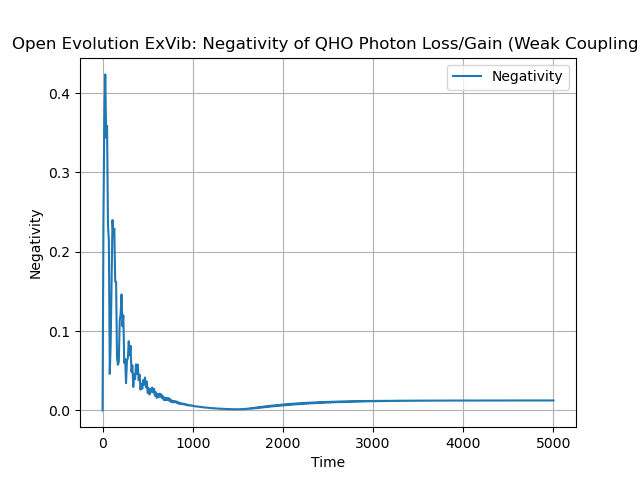
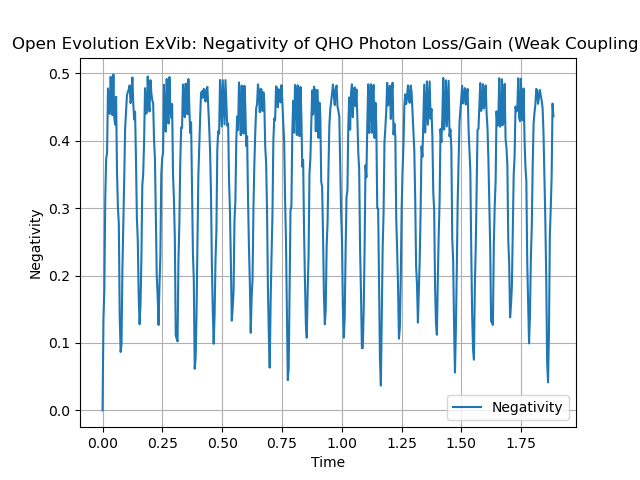
Corrects parameters and plots for Exciton-Vibration simulation.

diff --git a/Research Project/Code/ExVib_Open.py b/Research Project/Code/ExVib_Open.py
@@ -8,20 +8,21 @@ import math
 
 # NCOMMS4012: Consider pigments-protein environment of PE545 complex. Taking parameters stated,
 # d_epsilon = 1042, V = 92, d_E = 1058, w = 1111 all in cm^-1.
-# g = (0.0578)^0.5 = 267 cm^-1
+# g = w*(0.0578)^0.5 = 267 cm^-1
 # Moreover, T ~ 300K room temp expt.
 
-tlist = np.linspace(0.0, 5000.0, 500)  # units of 1/hbar omega
+t_max = 10.0 # ps
+tlist = np.linspace(0.0, 2 *np.pi * 0.03 * t_max , 500)  
+# TODO : conversion within class tlist_cm = tlist * 2 *np.pi * 3**(-2)  
+# t in cm conversion, noting original time is in ps
 
-# constants, cm^-1
-w = 1.0
-w_phys = 1111
-d_epsilon = 1042 / w_phys
-V = 92 / w_phys
-g = math.sqrt(
-    0.0578
-)  # weak regime, g < gamma, gamma_th AND g << w (zeta = 0.01, C = 1)
-N = 30  # num Fock states
+# params, cm^-1
+w = 1111
+d_epsilon = 1042
+V = 92
+g = w * math.sqrt(0.0578)
+# weak regime, g < gamma, gamma_th AND g << w (zeta = 0.01, C = 1)
+N = 10  # num Fock states
 n = 0  # photon number
 
 # Bases
@@ -51,7 +52,8 @@ psi0 = q.tensor(basis_atom_e, basis_qho)
 # Constants
 gamma = 0.1 
 gamma_th = 0.1 
-kbT = 0.001 * 300 
+T = 300
+kbT = 1.0 / (0.695 * T)
 n_omega = 1 / (np.exp(w / kbT) - 1)
 
 # Operators
@@ -84,6 +86,8 @@ L_tlsqho = L_tls + L_qho
 sim_open_tlsqho = TLSQHOSimulator(H, psi0, L_tlsqho, e_ops, times=tlist)
 results_open_tlsqho = sim_open_tlsqho.evolve()
 expect_open_tlsqho = sim_open_tlsqho.expect(results_open_tlsqho)
+neg_tlsqho = sim_open_tlsqho.negativity(results_open_tlsqho)
+coh_tlsqho = sim_open_tlsqho.rel_coherence(results_open_tlsqho)
 
 ############################### PLOTS #####################################
 sim_open_tls.plot(
@@ -144,7 +148,25 @@ sim_open_tlsqho.plot(
     expect_open_tlsqho,
     "Open Evolution ExVib: TLS and QHO Decay (Weak Coupling)",
     "Expectation Values",
-    "OQS_QHOTLS",
+    "OQS_TLSQHO",
     "ExVib",
     ["cavity photon number", "atom excitation probability"],
+)
+
+sim_open_tls.plot(
+    neg_tlsqho,
+    "Open Evolution ExVib: Negativity of both Dissipators Acting",
+    "Negativity",
+    "OQS_TLSQHO_Neg",
+    "ExVib",
+    ["Negativity"],
+)
+
+sim_open_tls.plot(
+    coh_tlsqho,
+    "Open Evolution ExVib: Coherence of both Dissipators Acting",
+    "Coherence",
+    "OQS_TLSQHO_coh",
+    "ExVib",
+    ["Coherence"],
 )
